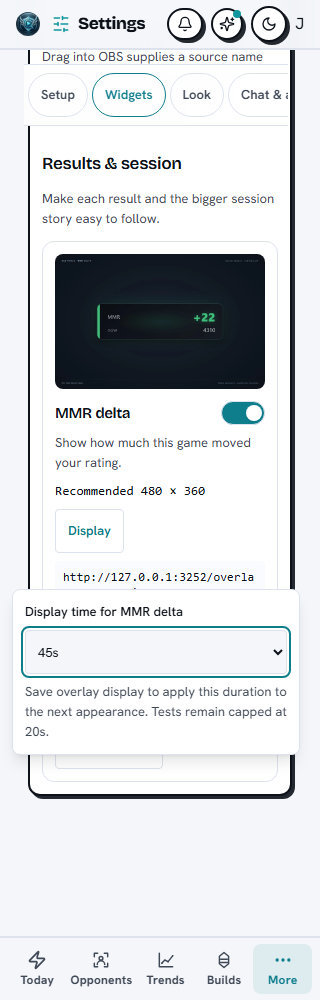
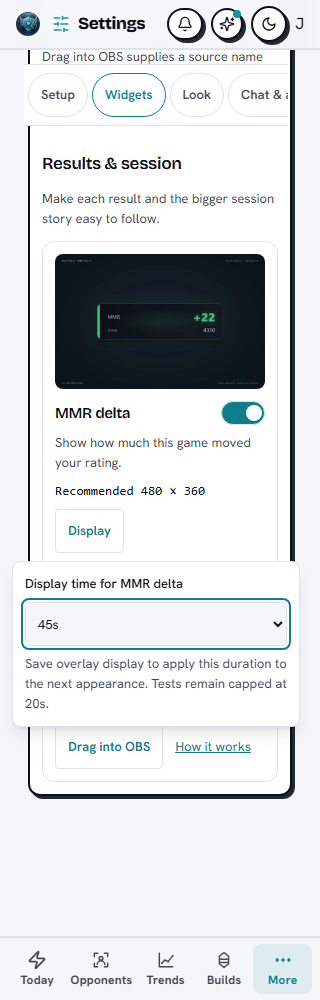
fix(overlays): use the shared sheet layer for display controls

Changed region(s): [[0.0625, 0.558, 0.9375, 0.775], [0.9062, 0.558, 0.9375, 0.589]]

diff --git a/apps/web/components/analyzer/settings/OverlayWidgetDisplay.tsx b/apps/web/components/analyzer/settings/OverlayWidgetDisplay.tsx
@@ -36,7 +36,7 @@ export function OverlayWidgetDisplay({ id, name, durationSec, disabled, onChange
   const defaultLabel = persistent ? "Default (widget controlled)" : `Default (${duration / 1000}s)`;
   return <>
     <button ref={trigger} type="button" aria-expanded={open} aria-controls={open ? panelId : undefined} aria-haspopup="dialog" onClick={() => setOpen(previous => !previous)} className="flex min-h-11 items-center rounded border border-border px-3 text-caption font-semibold text-accent focus-visible:outline-none focus-visible:ring-2 focus-visible:ring-accent">Display<span className="sr-only"> for {name}</span></button>
-    {open ? createPortal(<div ref={panel} id={panelId} role="dialog" aria-label={`Display for ${name}`} tabIndex={-1} className="fixed space-y-2 overflow-y-auto rounded-lg border border-border bg-bg-surface p-3 text-caption text-text shadow-lg" style={{ ...position, zIndex: 55, width: "min(18rem, calc(100vw - 24px))", maxHeight: "calc(100vh - 24px)" }}>
+    {open ? createPortal(<div ref={panel} id={panelId} role="dialog" aria-label={`Display for ${name}`} tabIndex={-1} className="fixed z-sheet space-y-2 overflow-y-auto rounded-lg border border-border bg-bg-surface p-3 text-caption text-text shadow-lg" style={{ ...position, width: "min(18rem, calc(100vw - 24px))", maxHeight: "calc(100vh - 24px)" }}>
       <label className="block font-medium" htmlFor={`display-${id}`}>Display time for {name}</label>
       <select id={`display-${id}`} className="min-h-11 w-full rounded border border-border bg-bg px-2 text-text" value={durationSec ?? ""} disabled={disabled || persistent} onChange={event => onChange(event.target.value === "" ? null : Number(event.target.value))}>
         <option value="">{defaultLabel}</option>

diff --git a/docs/handoff/overlay-profile-checkpoint.md b/docs/handoff/overlay-profile-checkpoint.md
@@ -8,7 +8,7 @@ Task: `overlay-profile-sync` and its configurable-hold-times augment. PR: https:
 - Private owner PUT uses `expectedRevision`; profile saves preserve widget enablement and credentials. Cache invalidation fences admitted reads, and a profile race requests a transient retry rather than declaring a valid token revoked.
 - Existing sockets receive canonical profiles at connect and after Save. All-in-one, standalone and scene clients reject old revisions and retired token callbacks, including A→B→A transitions. Explicit URL theme presence wins, even when empty, malformed or repeated.
 - Look and Widgets share one keyed draft, dirty guard and Save bar. The previous browser theme only enters a draft after opt-in. New source URLs follow the saved profile; older explicit `?theme=` URLs retain their look. Persistent/self-driven widgets do not store ineffective hold overrides.
-- Display popovers use a viewport-positioned portal with outside dismissal and Escape focus return. Narrow theme fieldsets and Save actions remain contained at 320px.
+- Display popovers use a viewport-positioned portal with outside dismissal and Escape focus return. Narrow theme fieldsets and Save actions remain contained at 320px; the popover uses the design system’s named sheet layer.
 - Help `obs-overlay-setup`, each timed widget's Learn trigger text, troubleshooting, CHANGELOG, owner setup notes and ADR 0034 explain the behavior. No environment variable, migration, collection, index, paid service or production activation is added.
 
 ## Local verification
@@ -16,7 +16,7 @@ Task: `overlay-profile-sync` and its configurable-hold-times augment. PR: https:
 - 769 affected web tests across 60 files passed; 96 integrated profile/widget/Learn/SaveBar tests passed after fresh main included the merged replay and widget-manager foundations. The final token-transition refinement separately passed its 13 real-client regressions and strict lint.
 - 62 API tests across 8 suites passed, including disposable Mongo ownership/CAS, stale in-flight cache, widget/profile field isolation, socket connect configuration, revocation, and flattened runtime packaging.
 - Full web/API types passed. Changed web files passed strict lint; the new validator/tests passed strict API lint. Existing touched API files passed with their pre-existing function-length warning rule excluded.
-- Required-engine build and smoke passed with bundle `604e9d4618a6414b`. The final web-only rebuild (`53003`) reused that verified unchanged engine and passed after the token-transition refinement.
+- Required-engine build and smoke passed with bundle `604e9d4618a6414b`. The final web-only rebuild (`92247`) reused that verified unchanged engine and passed after the token-transition refinement.
 - All unchanged performance budgets passed: landing 214.5/215, Today 228.1/240, opponent 471.9/500, all-in-one overlay 233.8/240, standalone widget 311.6/325, Settings 179.3/260 kB gzip.
 - Final local Chromium harness passed 135 checks, with real SettingsShell, widget cards, profile draft and overlay clients. Explicit synthetic API/auth/socket/Next boundaries; all nonlocal traffic blocked. Widths 320/390/768/1440, light/dark; 20 captures under `docs/handoff/screenshots/overlay-profile-*`.
 - Browser proof includes combined Save/reload retention, legacy opt-in without automatic write, owner reset, actual dirty-tab guard, persistent Display disabling, point-hit select controls, Escape focus return, URL precedence, old revision rejection, production hold extension and 5-second/20-second Test expiry on both clients.
